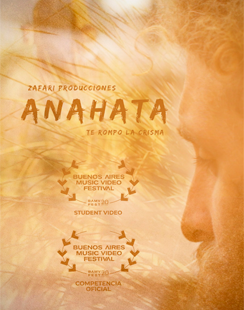
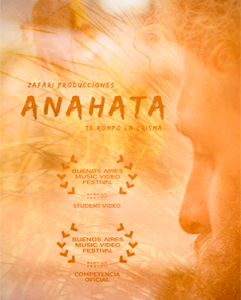
animaciones

diff --git a/index.html b/index.html
@@ -21,8 +21,7 @@
     <link href="https://fonts.googleapis.com/css2?family=B612&display=swap" rel="stylesheet">
     <link rel="preconnect" href="https://fonts.gstatic.com">
     <link href="https://fonts.googleapis.com/css2?family=Patua+One&display=swap" rel="stylesheet">
-  <script src="https://kit.fontawesome.com/ebd2c7db6a.js" crossorigin="anonymous"></script>
- 
+  <script src="https://kit.fontawesome.com/ebd2c7db6a.js" crossorigin="anonymous"
     <!-- Scroll -->
     <script src="js/smooth-scroll.min.js"></script>
     <script>
@@ -253,23 +252,29 @@
         <div class="row">
           <div class="col-xs-12 mb-3"><h1>Proyectos</h1></div>
           
-          <div class=" col-xs-12 col-lg-6">
+          <div class=" col-xs-12 cine col-lg-6">
 
             <div class=" card2 ml-3" id="cine" >
               <div class="row g-0">
                 <div class="col-md-4 col-xs-10">
-                  <img src="img/cine.png" class="m-2 img-fluid">
+                  <img src="img/cine.png" id="remote1" class="m-2 img-fluid">
                 </div>
                 <div class="col-md-8">
                   <div class="card-body">
                     <h3 class="card-title m-2">Cine.red - Plataforma web</h3>
-                    <p class="card-text m-2">Es un puente entre cine realizado por estudiantes con les espectadores y con la industria. Esta en contrucción pero ya cuenta con un index, diferentes secciones y una pagina para reproducir la pelicula.
+                    <p class="card-text ml-2 mb-1">Es un puente entre cine realizado por estudiantes con les espectadores y con la industria. Esta en contrucción pero ya cuenta con un index, diferentes secciones y una pagina para reproducir la pelicula.
                       <br> Esta construida con: <br>
-                      Css <i class="fab fa-css3-alt"></i> <br> Boostrap <i class="fab fa-bootstrap"></i> <br> Javascript
-                      <i class="fab fa-js-square"></i>
+                      <i class="fab fa-css3-alt"></i> Css, <i class="fab fa-bootstrap"></i>    Boostrap y <i class="fab fa-js-square"></i>  Javascript
+                      
                       <br><a  href="https://colixx.github.io/cine/index.html"  aria-pressed="true">Visitala</a>
-              
-                </p>
+                      <div class="sub-image">
+                        <a><img  onclick="chanfge(this)" src="img/cine.png"></a>
+                        <a><img onclick="chanfge(this)" src="img/cine1.png"></a>
+                        <a><img onclick="chanfge(this)" src="img/cine2.png"></a>
+                        <a><img onclick="chanfge(this)" src="img/cine3.png"></a>
+                    </div>
+                    </p>
+                    
                     
                   </div>
                 </div>
@@ -279,18 +284,24 @@
           </div>
 
 
-          <div class=" col-xs-12 col-lg-6">
+          <div class=" col-xs-12  col-lg-6">
 
             <div class=" card2 mr-3 " id="anahata">
               <div class="row g-0">
                 <div class="col-md-4 col-xs-10">
-                  <img src="img/anaha2.png" class="m-2 img-fluid">
+                  <img src="img/anaha2.png" id="ana" class="m-2 img-fluid">
                 </div>
                 <div class="col-md-8 ">
                   <div class="card-body">
                     <h3 class="card-title m-2">Anahata - Videoclip</h3>
                     <p class="card-text m-2">Es un videoclip que realice con Zafari Producciones.
                       Ganador de Student Video en Buenos Aires Music Video Festival 2020. <br>  <a  href="https://www.youtube.com/watch?v=tjd1J-Tmrx8" aria-pressed="true">Miralo</a>
+                      <div class="sub-image">
+                        <a><img id="pruebo" onclick="change(this)" src="img/anaha2.png"></a>
+                        <a><img id="pruebo" onclick="change(this)" src="img/anaha.png"></a>
+                        <a><img id="pruebo" onclick="change(this)" src="img/anaha1.png"></a>
+                        <a><img id="pruebo" onclick="change(this)" src="img/anaha3.png"></a>
+                      </div>
                 </p>
                     
                   </div>
@@ -306,14 +317,20 @@
             <div class="card2 mt-1 ml-3" id="latido" >
               <div class="row g-0">
                 <div class="col-md-4 col-xs-10">
-                  <img src="img/chile.png" class="m-2 img-fluid">
+                  <img src="img/chile.png" id="chile" class="m-2 img-fluid">
                 </div>
                 <div class="col-md-8">
                   <div class="card-body">
                     <h3 class="card-title m-2">Latido - Videoclip</h3>
                     <p class="card-text m-2">Es un videoclip que realice con Take Audiovisuales.
                       Experimentamos en montaje con efectos glichts en Premiere y en After <br> <a  href="https://www.youtube.com/watch?v=M3zurtBia3k" aria-pressed="true">Miralo</a>
-                </p>
+                      <div class="sub-image">
+                        <a><img id="chile" onclick="changef(this)" src="img/chile.png"></a>
+                        <a><img id="chile" onclick="changef(this)" src="img/chile1.png"></a>
+                        <a><img id="chile" onclick="changef(this)" src="img/chile2.png"></a>
+                        <a><img id="chile" onclick="changef(this)" src="img/chile3.png"></a>
+                      </div>
+                    </p>
                     
                   </div>
                 </div>
@@ -322,28 +339,29 @@
 
           </div>
 
-
-
-          
+         
           <div class=" col-xs-12 col-lg-6">
 
-            <div class=" card2 mt-1 mr-3" id="fuga" >
+            <div class=" card2 mt-1 mr-3"  >
               <div class="row g-0">
                 <div class="col-md-4 col-xs-10">
-                  <img src="img/fuga.png" class="m-2 img-fluid">
+                  <img src="img/fuga.png" id="fuga" class="m-2 img-fluid">
                 </div>
                 <div class="col-md-8">
                   <div class="card-body">
                     <h3 class="card-title m-2">Fuga - videjuego</h3>
                     <p class="card-text m-2">Es un videojuego 2d donde el extraterrestre debe pasar obstaculos por la via lactea para volver a su planeta. <br> 
                       <br> Esta construido con: <br>
-                      Javascript
-                      <i class="fab fa-js-square"></i>
-                      <br>
-                     Photoshop
-                     <i class="fas fa-paint-brush"></i> <br>
+                      <i class="fab fa-js-square"></i> Javascript y  <i class="fas fa-paint-brush"></i>  Photoshop
+                    
+                     <br> 
                      <a  href="https://colixx.github.io/fuga/" aria-pressed="true">Jugá</a>
-              
+                     <div class="sub-image">
+                      <a><img id="fuga" onclick="changes(this)" src="img/fuga.png"></a>
+                      <a><img id="fuga" onclick="changes(this)" src="img/fuga1.png"></a>
+                      <a><img id="fuga" onclick="changes(this)" src="img/fuga2.png"></a>
+                      <a><img id="fuga" onclick="changes(this)" src="img/fuga3.png"></a>
+                    </div>
                     </p>
 
         
@@ -376,7 +394,7 @@
               <img src="img/espiral.png" class="card-img-top img-fluid mt-2" alt="...">
               <div class="card-body cardt m-2">
                 <h3 class="ml-2">Espiral</h3>
-                <p class="card-text ml-2">Es una página web responsive para un emprendimiento de ropa. La construí con Css y Boostrap. <a  href="https://colixx.github.io/espirals" class=" " aria-pressed="true">Miralo</a></p>
+                <p class="card-text ml-2">Es una página web responsive para un emprendimiento de ropa. La construí con Css y Boostrap. <a  href="https://colixx.github.io/espirals" class=" " aria-pressed="true">Visitala</a></p>
                 
               </div>
               
@@ -423,7 +441,7 @@
     <!-- FIN FOOTER -->
 
     
-
+    <script src="main.js"></script>
     <!-- jQuery first, then Tether, then Bootstrap JS. -->
     <script src="https://ajax.googleapis.com/ajax/libs/jquery/3.1.1/jquery.min.js" integrity="sha384-3ceskX3iaEnIogmQchP8opvBy3Mi7Ce34nWjpBIwVTHfGYWQS9jwHDVRnpKKHJg7" crossorigin="anonymous"></script>
     <script src="https://ajax.googleapis.com/ajax/libs/jquery/3.5.1/jquery.min.js"></script> 

diff --git a/css/style.css b/css/style.css
@@ -40,15 +40,15 @@ body{
 	background-image: url("fondo.png");
 	background-size:cover;
 	background-repeat: no-repeat;
-	
 }
 
 .slider-1 img{
 	display:block;
 	margin:auto;
 	width:10em;
-	
+	transition:all .4s;
 }
+
 
 .slider-1 h1{
 	color:#ea5c5a;
@@ -57,11 +57,11 @@ body{
 }
 
 .slider-1 .card2{
+	border-radius: 20px;
 	color: black;
 	background-image: url("fondoproy.png");
 	background-size:cover;
 	background-repeat: no-repeat;
-	border-radius: 10px;
 	text-align: left;
 	margin:auto;
 	width:12em;
@@ -70,7 +70,6 @@ body{
 	-webkit-box-shadow: 10px 10px 31px -20px rgba(0,0,0,0.75);
 	-moz-box-shadow: 10px 10px 31px -20px rgba(0,0,0,0.75);
 	box-shadow: 10px 10px 31px -20px rgba(0,0,0,0.75);
-	border-radius: 5px;
 	border: white;
 	transition:all .4s;
 }
@@ -118,7 +117,7 @@ body{
 	background-image: url("fondo card.png");
 	background-size:cover;
 	background-repeat: no-repeat;
-	border-radius: 10px;
+	border-radius: 20px;
 	transition:all .4s;
 	text-align: center;
 	margin: auto;
@@ -165,9 +164,13 @@ body{
 
 .slider-3 img{
 	border-radius: 10px;
-	
 }
 
+.slider-3 a:hover{
+	color: #000103;
+	text-decoration: none;
+
+}
 
 .slider-3 .card2{
 	color: #000103;
@@ -178,7 +181,7 @@ body{
 	background-image: url("fondoproy.png");
 	background-size:cover;
 	background-repeat: no-repeat;
-	border-radius: 5px;
+	border-radius: 20px;
 	height: 20.5em;
 	transition:all .4s;
 }
@@ -207,12 +210,42 @@ body{
 	transform: scale(1.05);
 }
 
+.slider-3 .sub-image{
+    display: flex;
+	justify-content: left;
+}
+
+.sub-image img{
+    width: 40px;
+    height: 45px;
+	margin-left: 25px;
+	margin-top: 0px;
+    padding: 3px;
+	border-radius: 10px;
+	cursor: pointer;
+	border: 1.5px solid #ffffffab;
+	
+	box-shadow:
+    -10px -10px 10px rgba(230, 244, 244, 0.5),
+    5px 5px 5px rgba(70, 70, 70, 0.12);
+}
+
+#pruebo{
+	margin-top: 55px;
+}
+
+#chile{
+	margin-top: 60px;
+}
+
+#fuga{
+	margin-top: 10px;
+}
 
 
 
 .slider-3  .cardt{
 	color: black;
-	
 	text-align: left;
 		
 }
@@ -223,6 +256,8 @@ body{
 	box-shadow: 10px 10px 31px -20px rgba(0,0,0,0.75);
 	background-color:rgba(255, 255, 255, 0.561);
 	transition:all .4s;
+	border-radius: 20px;
+
 }
 
 .slider-3 img{
@@ -380,9 +415,7 @@ button::before{
 	background-size:cover;
 	background-repeat: no-repeat;
 	padding-left: 5vh;
-	
-	
-	
+		
 	}
 
 	#acerca{

diff --git a/main.js b/main.js
@@ -1,0 +1,18 @@
+var cine = document.getElementById("remote1");
+function chanfge(image){
+    cine.src=image.src;
+}
+var ana = document.getElementById("ana");
+function change(image){
+    ana.src=image.src;
+}
+
+var chile = document.getElementById("chile");
+function changef(image){
+    chile.src=image.src;
+}
+
+var fuga = document.getElementById("fuga");
+function changes(image){
+    fuga.src=image.src;
+}
